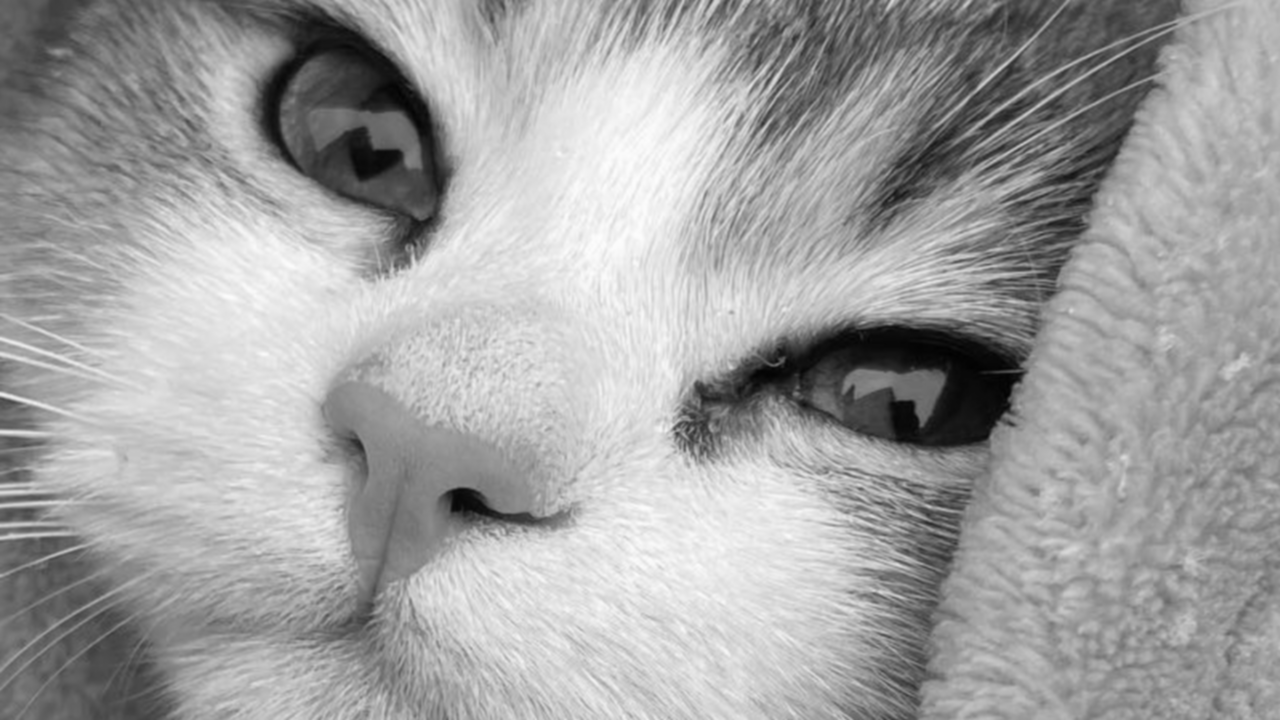
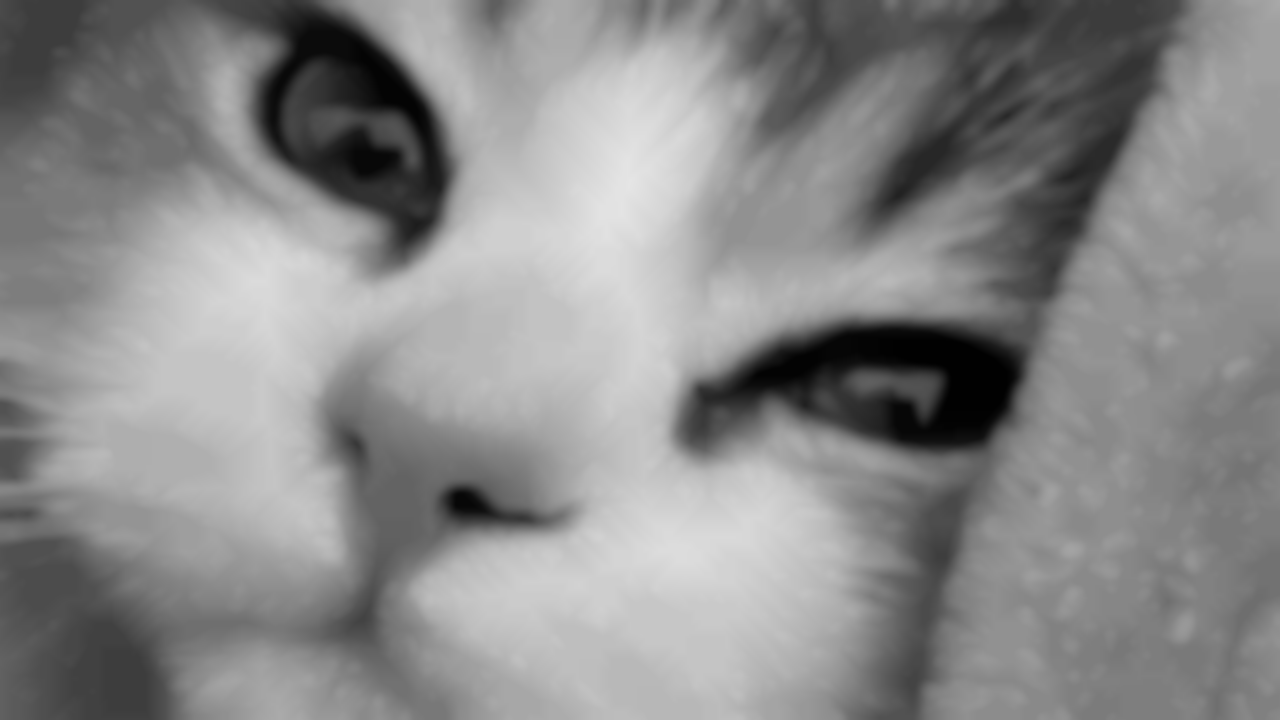
ADD: filtro gris y blur gaussiano aplicado, makefile hecho para cpu, README incompleto

diff --git a/TAREAS/Tarea3_120726/src/main.cpp b/TAREAS/Tarea3_120726/src/main.cpp
@@ -12,6 +12,10 @@
 int main (int argc, char **argv) {
     std::string ruta_entrada = (argc > 1) ? argv [1]: "imagenesEntrada/gatito.jpg";
 
+    // Numero de veces que se aplica el kernel 3x3 
+    // Cada pasada difumina un poco mas (mismo kernel, aplicado repetidamente)
+    const int numIteraciones = 60;
+
     try {
         Imagen imagen = cargarImagen(ruta_entrada);
         std::cout << "Imagen cargada: " << ruta_entrada << "\n";
@@ -23,13 +27,20 @@ int main (int argc, char **argv) {
         std::vector<uint8_t> gris = convertirEscalaGrises(imagen);
         std::cout << "Imagen convertida a escala de grises. Tamaño del vector: " << gris.size() << "\n";
 
-        // Gaussian blur en CPU con medicion de tiempo
+        // Gaussian blur en CPU, aplicado numIteraciones veces,
+        // con medicion del tiempo TOTAL de las iteraciones.
         auto inicio = std::chrono::high_resolution_clock::now();
-        std::vector<uint8_t> salida = gaussianBlurCPU(gris, imagen.ancho, imagen.alto);
+
+        std::vector<uint8_t> salida = gris; // punto de partida: la imagen en gris
+        for (int i = 0; i < numIteraciones; ++i) {
+            salida = gaussianBlurCPU(salida, imagen.ancho, imagen.alto);
+        }
+
         auto fin = std::chrono::high_resolution_clock::now();
 
+    
         double tiempoCPUms = std::chrono::duration<double, std::milli>(fin - inicio).count();
-        std::cout << "Blur gaussiano aplicado en CPU. Tiempo de ejecución: " << tiempoCPUms << " ms\n";
+        std::cout << "Blur gaussiano aplicado en CPU (" << numIteraciones << " iteraciones). Tiempo de ejecución: " << tiempoCPUms << " ms\n";
 
         // se guarda imagen en ggris para validar visualmente
         Imagen imagenGris;
@@ -47,7 +58,7 @@ int main (int argc, char **argv) {
         imagenBlur.canales = 1; // escala de grises
         imagenBlur.datos = salida;
         guardarImagen("imagenesSalida/gatitoBlur_cpu.png", imagenBlur);
-        std::cout << "Imagen con blur gaussiano (CPU) guardada en: imagenesSalida/gatitoBlur_cpu.png\n";
+        std::cout << "Imagen con blur gaussiano (CPU) guardada en: imagenesSalida/gatitoBlurCPU.png\n";
 
     } catch (const std::exception &e) {
         std::cerr << "Error: " << e.what() << "\n";

diff --git a/TAREAS/Tarea3_120726/src/gaussianBlur.cpp b/TAREAS/Tarea3_120726/src/gaussianBlur.cpp
@@ -1,7 +1,7 @@
 #include "gaussianBlur.hpp"
 #include <algorithm> // para clamp, min y max
 
-// funcion para "clamp" -> mantiene íindice dentro de los límites de la imagen (0, limite-1)
+// funcion para "clamp" -> mantiene índice dentro de los límites de la imagen (0, limite-1)
 static inline int clamp(int valor, int limite) {
     return std::min(std::max(valor, 0), limite - 1);
 }
@@ -37,6 +37,6 @@ std::vector<uint8_t> gaussianBlurCPU(const std::vector<uint8_t> &entrada, int an
             salida[y * ancho + x] = static_cast<uint8_t>(suma / sumaKernel);
         }
     }
-    
+
     return salida;
 }